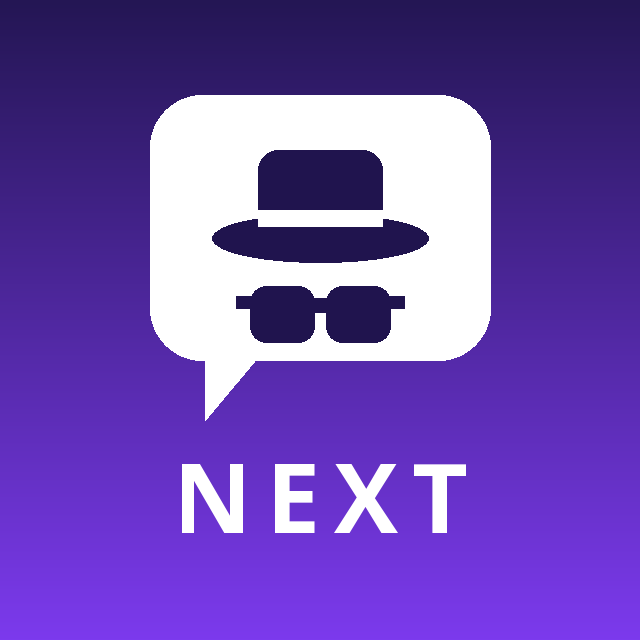
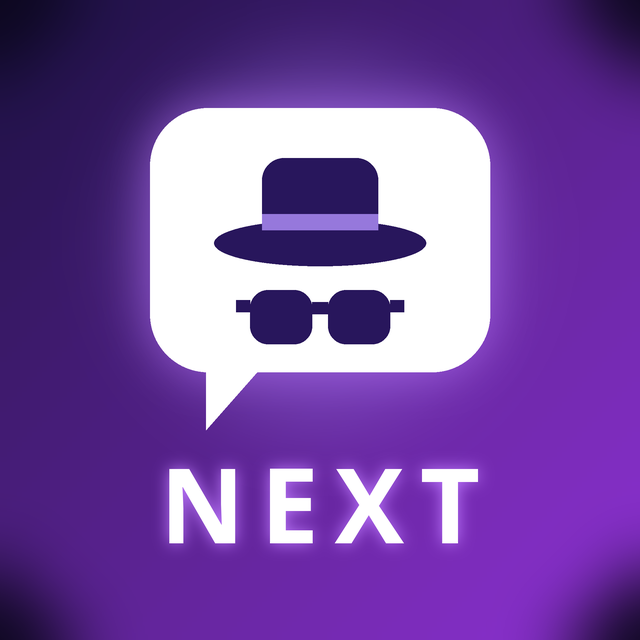
assets: улучшенный аватар (сглаживание 3x, неон-свечение, градиент, подсветка NEXT)

diff --git a/assets/make_avatar.py b/assets/make_avatar.py
@@ -1,69 +1,117 @@
-"""Генерирует аватар бота: анонимное общение (маска инкогнито + пузырь чата + NEXT)."""
+"""Аватар бота «NEXT» для анонимного общения.
+Качество: рендер в 3x + сглаживание (LANCZOS), неоновое свечение, диагональный градиент.
+Тема: маска инкогнито (шляпа + очки) в пузыре чата.
+"""
 import glob
-from PIL import Image, ImageDraw, ImageFont
+from PIL import Image, ImageDraw, ImageFont, ImageFilter
 
-W = H = 640
-PURPLE_TOP = (36, 22, 84)      # глубокий индиго
-PURPLE_BOT = (124, 58, 237)    # яркий фиолетовый
+OUT = 640
+S = 3                      # супер-сэмплинг
+W = OUT * S
+k = S                      # координаты задаём в 640-пространстве, умножаем на k
+
+# Палитра
+C_TOP = (26, 16, 64)       # глубокий индиго
+C_BOT = (146, 51, 215)     # насыщенный фиолетовый
+ACCENT = (190, 120, 255)   # неон для свечения
 WHITE = (255, 255, 255)
-MASK = (32, 20, 78)            # цвет маски на белом пузыре
+MASK = (40, 22, 92)        # цвет маски на белом пузыре
 
-img = Image.new("RGB", (W, H), PURPLE_TOP)
-px = img.load()
-# вертикальный градиент
-for y in range(H):
-    t = y / (H - 1)
-    r = int(PURPLE_TOP[0] + (PURPLE_BOT[0] - PURPLE_TOP[0]) * t)
-    g = int(PURPLE_TOP[1] + (PURPLE_BOT[1] - PURPLE_TOP[1]) * t)
-    b = int(PURPLE_TOP[2] + (PURPLE_BOT[2] - PURPLE_TOP[2]) * t)
-    for x in range(W):
-        px[x, y] = (r, g, b)
 
-d = ImageDraw.Draw(img)
+def R(*coords):
+    """Масштабирование координат из 640-пространства в рабочее."""
+    return tuple(c * k for c in coords)
 
-# --- Белый пузырь чата ---
-d.rounded_rectangle((150, 95, 490, 360), radius=52, fill=WHITE)
-# хвостик пузыря (внизу слева)
-d.polygon([(205, 350), (205, 420), (262, 352)], fill=WHITE)
 
-# --- Маска инкогнито (на белом пузыре, фиолетовая) ---
-# Шляпа: корона
-d.rounded_rectangle((258, 150, 382, 232), radius=20, fill=MASK)
+# ---------- 1. Диагональный градиент (через маленькое изображение + ресайз) ----------
+small = Image.new("RGB", (64, 64))
+sp = small.load()
+for y in range(64):
+    for x in range(64):
+        t = (x + y) / 126
+        sp[x, y] = (
+            int(C_TOP[0] + (C_BOT[0] - C_TOP[0]) * t),
+            int(C_TOP[1] + (C_BOT[1] - C_TOP[1]) * t),
+            int(C_TOP[2] + (C_BOT[2] - C_TOP[2]) * t),
+        )
+img = small.resize((W, W), Image.BILINEAR)
+
+# Радиальная подсветка по центру-верху (глубина)
+glow_bg = Image.new("L", (W, W), 0)
+gd = ImageDraw.Draw(glow_bg)
+gd.ellipse(R(140, 60, 500, 420), fill=90)
+glow_bg = glow_bg.filter(ImageFilter.GaussianBlur(W * 0.06))
+img = Image.composite(Image.new("RGB", (W, W), (175, 130, 255)), img, glow_bg)
+
+# Виньетка по краям
+vig = Image.new("L", (W, W), 0)
+vd = ImageDraw.Draw(vig)
+vd.ellipse(R(-80, -80, 720, 720), fill=255)
+vig = vig.filter(ImageFilter.GaussianBlur(W * 0.05))
+dark = Image.new("RGB", (W, W), (12, 7, 30))
+img = Image.composite(img, dark, vig)
+
+draw = ImageDraw.Draw(img)
+
+# ---------- 2. Неоновое свечение под пузырём ----------
+glow = Image.new("RGBA", (W, W), (0, 0, 0, 0))
+gdr = ImageDraw.Draw(glow)
+gdr.rounded_rectangle(R(150, 108, 490, 372), radius=58 * k, fill=ACCENT + (255,))
+glow = glow.filter(ImageFilter.GaussianBlur(W * 0.035))
+img.paste(Image.new("RGB", (W, W), ACCENT), (0, 0), glow.split()[3].point(lambda a: int(a * 0.55)))
+draw = ImageDraw.Draw(img)
+
+# ---------- 3. Белый пузырь чата ----------
+draw.rounded_rectangle(R(150, 108, 490, 372), radius=58 * k, fill=WHITE)
+draw.polygon([(206 * k, 360 * k), (206 * k, 430 * k), (266 * k, 362 * k)], fill=WHITE)
+
+# ---------- 4. Маска инкогнито ----------
+# Шляпа — корона
+draw.rounded_rectangle(R(262, 158, 378, 236), radius=22 * k, fill=MASK)
 # Поля шляпы
-d.ellipse((212, 214, 428, 262), fill=MASK)
-# Лента на шляпе (белая полоска)
-d.rectangle((258, 210, 382, 226), fill=WHITE)
+draw.ellipse(R(214, 220, 426, 266), fill=MASK)
+# Лента (светлая)
+draw.rectangle(R(262, 214, 378, 230), fill=(150, 120, 220))
+# Очки
+draw.rounded_rectangle(R(250, 290, 312, 344), radius=18 * k, fill=MASK)
+draw.rounded_rectangle(R(328, 290, 390, 344), radius=18 * k, fill=MASK)
+draw.rectangle(R(312, 302, 328, 314), fill=MASK)
+draw.rectangle(R(236, 300, 250, 312), fill=MASK)
+draw.rectangle(R(390, 300, 404, 312), fill=MASK)
 
-# Очки (под полями)
-d.rounded_rectangle((250, 286, 314, 342), radius=16, fill=MASK)   # левая линза
-d.rounded_rectangle((326, 286, 390, 342), radius=16, fill=MASK)   # правая линза
-d.rectangle((314, 298, 326, 312), fill=MASK)                      # переносица
-# дужки
-d.rectangle((236, 296, 250, 308), fill=MASK)
-d.rectangle((390, 296, 404, 308), fill=MASK)
-
-# --- Текст NEXT ---
-font_path = None
-for p in glob.glob("/usr/share/fonts/**/NotoSans*[wght]*.ttf", recursive=True) + \
-         glob.glob("/usr/share/fonts/**/NotoSans*.ttf", recursive=True):
-    font_path = p
-    break
-font = ImageFont.truetype(font_path, 96)
+# ---------- 5. Текст NEXT (с подсветкой) ----------
+font_path = (glob.glob("/usr/share/fonts/**/NotoSans*[wght]*.ttf", recursive=True) +
+             glob.glob("/usr/share/fonts/**/NotoSans*.ttf", recursive=True))[0]
+font = ImageFont.truetype(font_path, 104 * k)
 try:
-    font.set_variation_by_axes([800])  # жирный, если вариативный
+    font.set_variation_by_axes([900])
 except Exception:
     pass
 
 text = "NEXT"
-# трекинг между буквами
-spacing = 14
-widths = [d.textlength(ch, font=font) for ch in text]
+spacing = 16 * k
+widths = [draw.textlength(ch, font=font) for ch in text]
 total = sum(widths) + spacing * (len(text) - 1)
-x = (W - total) / 2
-y = 430
+tx = (W - total) / 2
+ty = 432 * k
+
+# слой подсветки текста
+tglow = Image.new("RGBA", (W, W), (0, 0, 0, 0))
+tg = ImageDraw.Draw(tglow)
+x = tx
 for ch, w in zip(text, widths):
-    d.text((x, y), ch, font=font, fill=WHITE)
+    tg.text((x, ty), ch, font=font, fill=ACCENT + (255,))
+    x += w + spacing
+tglow = tglow.filter(ImageFilter.GaussianBlur(W * 0.012))
+img.paste(Image.new("RGB", (W, W), ACCENT), (0, 0), tglow.split()[3])
+
+draw = ImageDraw.Draw(img)
+x = tx
+for ch, w in zip(text, widths):
+    draw.text((x, ty), ch, font=font, fill=WHITE)
     x += w + spacing
 
+# ---------- финал: уменьшение со сглаживанием ----------
+img = img.resize((OUT, OUT), Image.LANCZOS)
 img.save("/projects/sandbox/Toxic/assets/avatar.png", "PNG")
-print("avatar.png сохранён")
+print("avatar.png обновлён, размер", img.size)